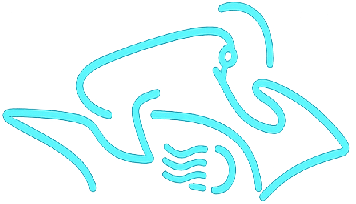
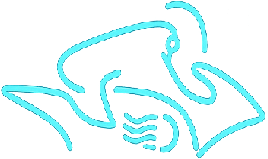
P5.8: new art for all 3 bike pieces + cache-bust + neutral tune
- Replaced frame + front/rear wheel PNGs with the new art (the new frame had
  landed as "bike-frame (2).png"; renamed into the expected /bike-frame.png path).
- bike.ts: bump SPRITE_CACHE_BUST (v8 → v9) so the browser re-fetches all three
  new images (public paths unchanged); reset BIKE_TUNE to neutral for re-dialing —
  FRAME_WIDTH_M 2.0, FRAME_OFFSET_X/Y 0, SPRITE_ROTATION_OFFSET 0, wheel diameters
  0.68 (= physics 2×r 0.34), wheel offsets 0.
- 3-piece render (frame + each wheel on its own physics body) + B tune panel + J
  body overlay unchanged.

No physics change, no SIM_VERSION bump. Verified: npm run verify clean (4 ws);
web vite build clean (all 3 pieces copied to dist).

diff --git a/apps/web/src/shared/bike.ts b/apps/web/src/shared/bike.ts
@@ -46,8 +46,8 @@ export const BIKE_TUNE: BikeSpriteTune = {
   FRAME_OFFSET_X: 0,
   FRAME_OFFSET_Y: 0,
   SPRITE_ROTATION_OFFSET: 0,
-  FRONT_WHEEL_DIAMETER_M: 0.9,
-  REAR_WHEEL_DIAMETER_M: 0.9,
+  FRONT_WHEEL_DIAMETER_M: 0.68,
+  REAR_WHEEL_DIAMETER_M: 0.68,
   FRONT_WHEEL_OFFSET_X: 0,
   FRONT_WHEEL_OFFSET_Y: 0,
   REAR_WHEEL_OFFSET_X: 0,
@@ -77,7 +77,7 @@ export interface BikeView {
 const spriteCache = new Map<string, HTMLImageElement>();
 // Bump when the art files change so the browser fetches the new image instead of
 // a stale cached one (the public/ paths stay the same). Cached by bare path.
-const SPRITE_CACHE_BUST = "v8";
+const SPRITE_CACHE_BUST = "v9";
 
 function getSprite(path: string): HTMLImageElement {
   let img = spriteCache.get(path);